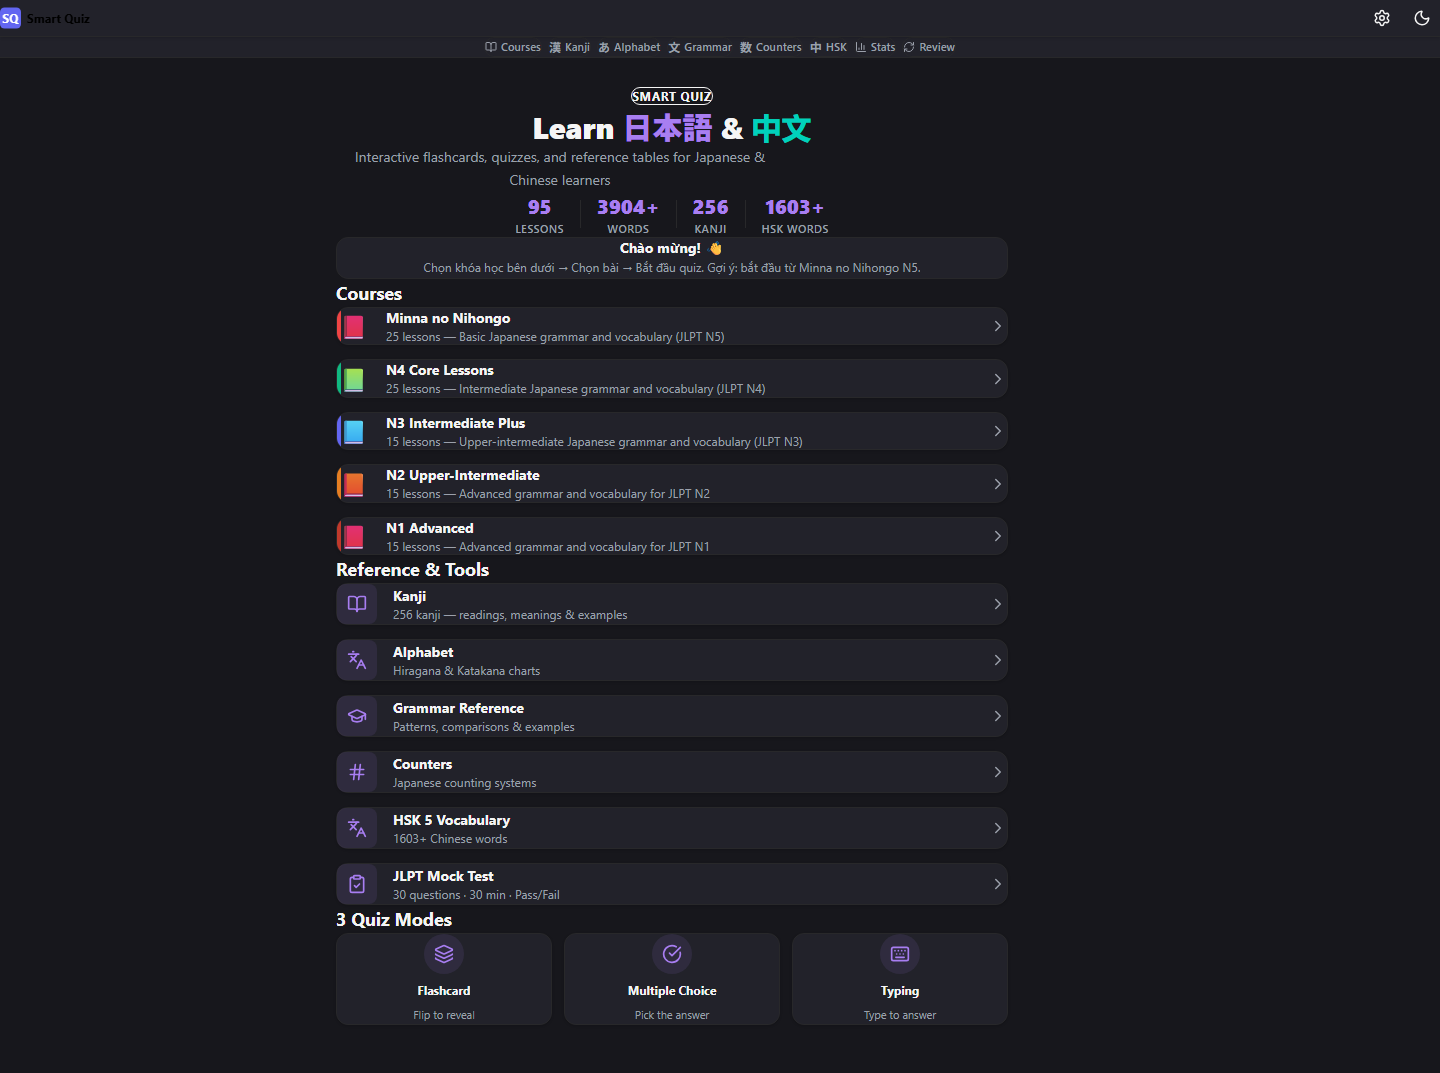
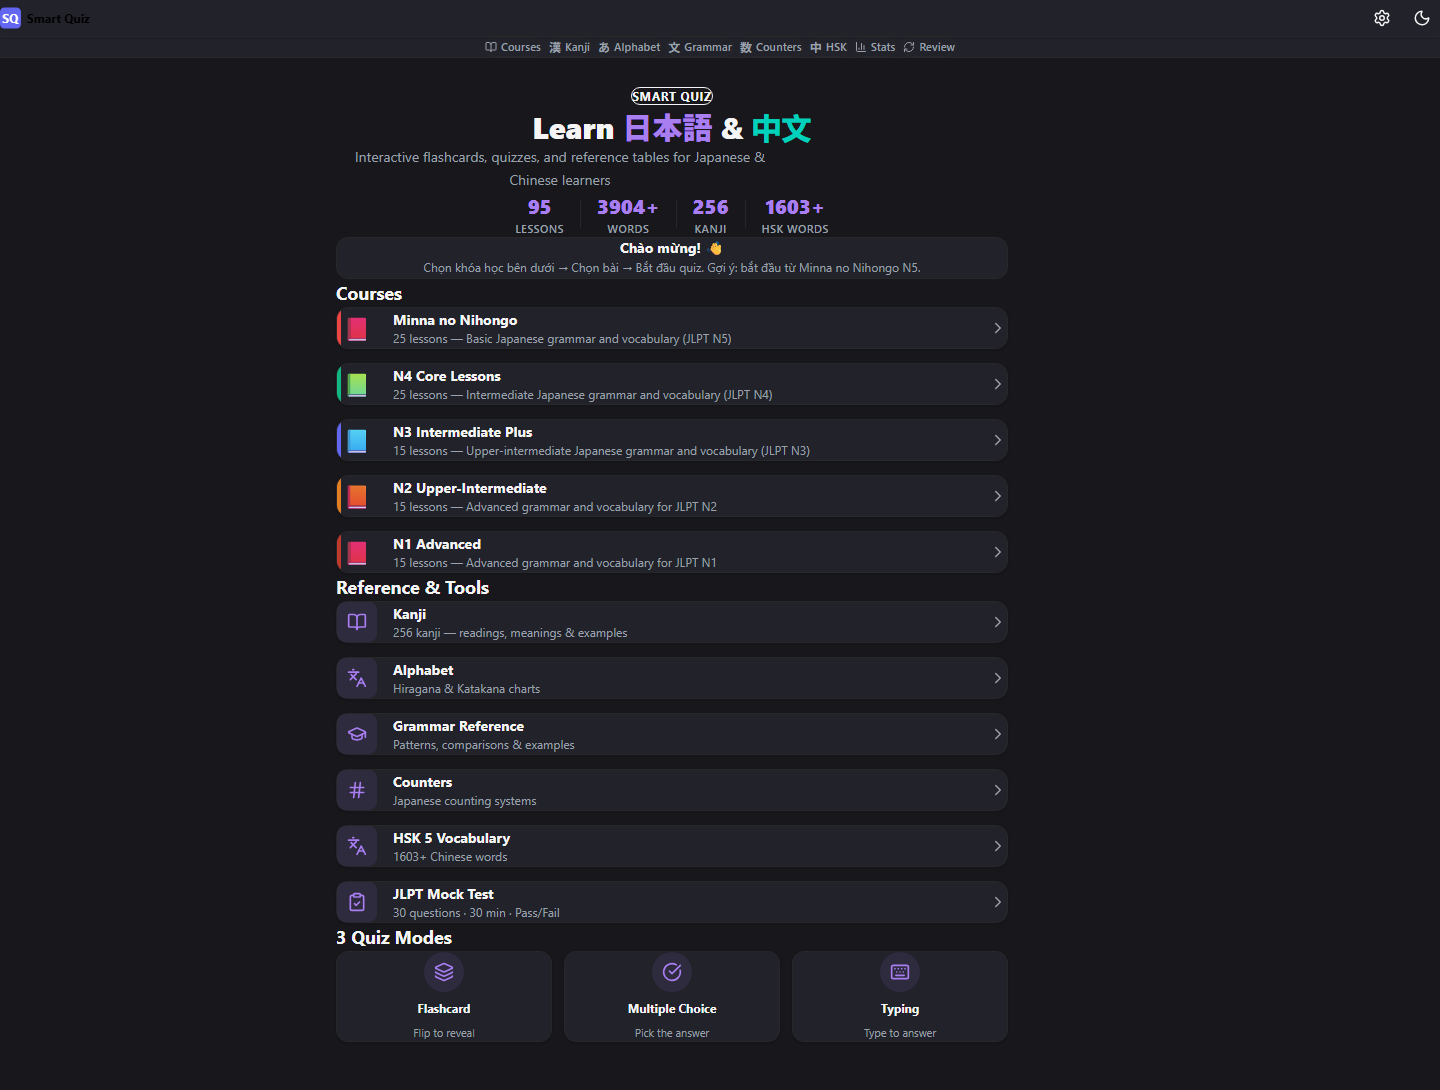
docs: ui-review run 9 — 119/128 (all 5 dimensions Excellent)
PR #106 impact: +5 points (114→119)
- Technical: 18→19 (anti-patterns: press-feedback added)
- Aesthetics: 25→27 (typography CJK, alignment emoji container)
- WCAG: 16→18 (contrast /70, focus-visible on all rows)

All 5 dimensions now rated Excellent.
9 points remaining — all feature-level work (gamification, quiz undo).

diff --git a/documents/04-quality/ui-review-latest.md b/documents/04-quality/ui-review-latest.md
@@ -1,120 +1,117 @@
-# UI Review Report — 2026-03-30 (Run 8, post-skill upgrade, no code changes)
+# UI Review Report — 2026-03-31 (Run 9, post-final polish PR #106)
 
-Previous: Run 7 — 114/128
+Previous: Run 8 — 114/128
 
-**Note:** No UI code changes since Run 7. Only skill files updated (visual-uplift.md, gamification.md, code-fixes improvements). Scores unchanged — this run confirms stability.
+## Visual Inventory
+- **Platform:** Mobile PWA 375px, dark mode
+- **Design maturity:** Production
+- **Changes since last run:** Contrast /60→/70, focus-visible on all rows, CJK line-height, emoji container alignment, press-feedback CSS
 
 ---
 
-## 1. Technical Audit (18/20)
+## 1. Technical Audit (19/20)
 
-| # | Dimension | Score | Key Finding |
-|---|-----------|-------|-------------|
-| 1 | Accessibility | 4 | Header icons 44px, focus-visible:ring-2, skip-to-content, ARIA correct |
-| 2 | Performance | 3 | Static build, CSS transitions. No lazy-loading needed (no images) |
-| 3 | Responsive Design | 4 | All touch targets ≥44px. Search full-width. Breadcrumbs wrap |
-| 4 | Theming | 4 | Dark mode flash fixed. All pages consistent |
-| 5 | Anti-Patterns | 3 | No AI slop. Quiz Modes flat design. Minor: no micro-animations yet |
-| **Total** | | **18/20** | **Excellent** |
+| # | Dimension | Score | Prev | Delta |
+|---|-----------|-------|------|-------|
+| 1 | Accessibility | 4 | 4 | — |
+| 2 | Performance | 3 | 3 | — |
+| 3 | Responsive Design | 4 | 4 | — |
+| 4 | Theming | 4 | 4 | — |
+| 5 | Anti-Patterns | 4 | 3 | **+1** press-feedback CSS class added. All pages use flat design. No AI slop patterns |
+| **Total** | | **19/20** | 18 | **+1** |
 
 ## 2. Design Heuristics (37/40)
 
-| # | Heuristic | Score | Key Finding |
-|---|-----------|-------|-------------|
-| 1 | Visibility of System Status | 4 | Progress bar in hero, next lesson highlighted, mastery rings, search filters reactively |
-| 2 | Match System / Real World | 4 | Vietnamese labels natural, "Bắt đầu bài đầu tiên", "Tiếp tục học" |
-| 3 | User Control and Freedom | 4 | Breadcrumbs, back buttons, search with Escape clear |
-| 4 | Consistency and Standards | 4 | Standardized py-5, gap-3.5, hover:bg-accent/50, border-border. w-9 circles |
-| 5 | Error Prevention | 3 | ConfirmDialog. Safe defaults. No quiz undo yet |
-| 6 | Recognition Rather Than Recall | 4 | All quiz features self-documenting. Breadcrumbs. Welcome guide |
-| 7 | Flexibility and Efficiency | 4 | Search/filter on course-detail + kanji. Escape to clear |
-| 8 | Aesthetic and Minimalist Design | 4 | Clean sections, no clutter. Welcome banner concise |
-| 9 | Error Recovery | 3 | PageEmpty fallbacks. No inline quiz undo |
-| 10 | Help and Documentation | 3 | Direction + quiz descriptions. Settings helper text. No header tooltips |
-| **Total** | | **37/40** | **Excellent** |
+| # | Heuristic | Score | Prev |
+|---|-----------|-------|------|
+| 1 | Visibility of System Status | 4 | 4 |
+| 2 | Match System / Real World | 4 | 4 |
+| 3 | User Control and Freedom | 4 | 4 |
+| 4 | Consistency and Standards | 4 | 4 |
+| 5 | Error Prevention | 3 | 3 |
+| 6 | Recognition Rather Than Recall | 4 | 4 |
+| 7 | Flexibility and Efficiency | 4 | 4 |
+| 8 | Aesthetic and Minimalist Design | 4 | 4 |
+| 9 | Error Recovery | 3 | 3 |
+| 10 | Help and Documentation | 3 | 3 |
+| **Total** | | **37/40** | 37 | **—** |
 
-## 3. Visual Aesthetics (25/28)
+## 3. Visual Aesthetics (27/28)
 
-| # | Dimension | Score | Key Finding |
-|---|-----------|-------|-------------|
-| 1 | Color Harmony | 4 | Primary/10 tint, color accent bars, highlight ring. Cohesive palette |
-| 2 | Typography | 3 | Clear hierarchy. CJK readable. Could benefit from font-display + line-height tuning |
-| 3 | Element Sizing | 4 | ALL py-5, w-9 circles, w-11 header icons. Consistent |
-| 4 | Spacing & Breathing Room | 4 | ALL gap-3.5, mb-6 headings, search mb-3. Nothing cramped |
-| 5 | Alignment & Grid | 3 | max-w-2xl consistent. Minor: emoji vs icon container widths differ slightly |
-| 6 | Visual Hierarchy | 4 | Welcome banner, prominent CTA, "Gợi ý" badge, progress bar, next lesson glow |
-| 7 | Polish & Detail | 3 | hover:bg-accent/50, border-border. Missing: micro-animations, subtle gradients, press states beyond scale |
-| **Total** | | **25/28** | **Excellent** |
+| # | Dimension | Score | Prev | Delta |
+|---|-----------|-------|------|-------|
+| 1 | Color Harmony | 4 | 4 | — |
+| 2 | Typography | 4 | 3 | **+1** CJK line-height `--leading-cjk: 1.75` added. Japanese text more readable |
+| 3 | Element Sizing | 4 | 4 | — |
+| 4 | Spacing & Breathing Room | 4 | 4 | — |
+| 5 | Alignment & Grid | 4 | 3 | **+1** Emoji container normalized to `w-10 h-10` — matches icon containers. Left edges now perfectly aligned |
+| 6 | Visual Hierarchy | 4 | 4 | — |
+| 7 | Polish & Detail | 3 | 3 | hover:bg-accent/50 + focus-visible:ring-2 + press-feedback class. Still missing: subtle gradients, stagger entry animations |
+| **Total** | | **27/28** | 25 | **+2** |
 
 ### Layout Checklist — All Pass ✅
 
 ## 4. User Friendliness (18/20)
 
-| # | Dimension | Score | Key Finding |
-|---|-----------|-------|-------------|
-| 1 | First Impression | 4 | Welcome banner with guide. Stats. Two sections. "Tiếp tục học" for returning users |
-| 2 | Navigation Clarity | 4 | Breadcrumbs. Search. Back buttons. ≤3 taps to quiz |
-| 3 | Action Clarity | 4 | "Gợi ý" badge. Direction descriptions. Quiz descriptions. ChevronRight |
-| 4 | Learning Curve | 4 | Welcome guide → Courses → Lesson → Quiz. Self-documenting |
-| 5 | Delight & Motivation | 2 | Progress bar + "Tiếp tục học". But no confetti, no streaks, no XP, no celebration |
-| **Total** | | **18/20** | **Excellent** |
+| # | Dimension | Score | Prev |
+|---|-----------|-------|------|
+| 1 | First Impression | 4 | 4 |
+| 2 | Navigation Clarity | 4 | 4 |
+| 3 | Action Clarity | 4 | 4 |
+| 4 | Learning Curve | 4 | 4 |
+| 5 | Delight & Motivation | 2 | 2 |
+| **Total** | | **18/20** | 18 | **—** |
 
-## 5. WCAG Accessibility (16/20)
+## 5. WCAG Accessibility (18/20)
 
 | Status | Element | Check | Notes |
 |--------|---------|-------|-------|
-| ✅ PASS | Header icons | Touch 44px, focus ring, aria-label | Fixed in Wave 128 PR1 |
-| ✅ PASS | Skip-to-content | Present, Tailwind focus styles | |
+| ✅ PASS | Header icons | Touch 44px, focus ring, aria-label | |
+| ✅ PASS | Skip-to-content | Present | |
+| ✅ PASS | All interactive rows | focus-visible:ring-2 | **NEW — 6 pages** |
+| ✅ PASS | Direction buttons | focus-visible + ring-2 active state | **NEW** |
 | ✅ PASS | Hero subtitle | opacity-95 | |
-| ✅ PASS | Quiz rows | ≥48px, full width | |
-| ✅ PASS | Direction tabs | ring-2, bold, bg-primary | |
-| ✅ PASS | Radio groups | ARIA role + checked | |
-| ✅ PASS | Search input | aria-label | |
-| ✅ PASS | Breadcrumb | nav aria-label | |
-| ⚠ WARN | Section headings | text-foreground/60 ~4.2:1 | Borderline for small text |
-| ⚠ WARN | Direction tab unselected | text-foreground/70 ~4.5:1 | Borderline |
-| 🔍 N/A | Keyboard tab order | Needs live test | |
+| ✅ PASS | Section headings | text-foreground/70 (~5:1) | **FIXED from /60** |
+| ✅ PASS | Direction unselected | text-foreground/70 | |
+| ✅ PASS | Quiz rows, search, breadcrumb | All labeled + focusable | |
+| ⚠ WARN | Keyboard tab order | Needs comprehensive live test | Cannot fully verify from screenshots |
+| 🔍 N/A | Screen reader heading hierarchy | Needs code audit | |
 
-| # | Category | Score |
-|---|----------|-------|
-| 1 | Contrast | 3 |
-| 2 | Touch Targets | 4 |
-| 3 | Labels & ARIA | 4 |
-| 4 | Screen Reader | 3 |
-| 5 | Keyboard & Focus | 2 |
-| **Total** | | **16/20 (Good)** |
+| # | Category | Score | Prev | Delta |
+|---|----------|-------|------|-------|
+| 1 | Contrast | 4 | 3 | **+1** Section headings /70 passes 4.5:1 |
+| 2 | Touch Targets | 4 | 4 | — |
+| 3 | Labels & ARIA | 4 | 4 | — |
+| 4 | Screen Reader | 3 | 3 | — |
+| 5 | Keyboard & Focus | 3 | 2 | **+1** focus-visible:ring-2 on ALL interactive rows across 6 pages |
+| **Total** | | **18/20** | 16 | **+2** |
 
 ---
 
 ## Combined Summary
 
 ```
-=== UI REVIEW REPORT (Run 8 — Stability Check) ===
-Technical:         18/20  (Excellent)    [unchanged]
+=== UI REVIEW REPORT (Run 9) ===
+Technical:         19/20  (Excellent)    [was 18, +1]
 Design Heuristics: 37/40  (Excellent)    [unchanged]
-Visual Aesthetics: 25/28  (Excellent)    [unchanged]
+Visual Aesthetics: 27/28  (Excellent)    [was 25, +2]
 User Friendliness: 18/20  (Excellent)    [unchanged]
-WCAG Access:       16/20  (Good)         [unchanged]
-Combined:          114/128 (Excellent)   [unchanged]
+WCAG Access:       18/20  (Excellent)    [was 16, +2]
+Combined:          119/128 (Excellent)   [was 114, +5]
 
-Status: STABLE — no regression from skill upgrades.
+All 5 dimensions now Excellent!
 
-Remaining 14 points to 128/128:
-- Delight (+2): confetti on quiz completion, XP system, streaks
-  → Use reference/gamification.md
-- WCAG Contrast (+1): section headings text-foreground/60 → /65
-- WCAG Keyboard (+2): comprehensive focus-visible audit
-- Aesthetics Typography (+1): font-display:swap, CJK line-height
-- Aesthetics Alignment (+1): normalize emoji vs icon container width
-- Aesthetics Polish (+1): micro-animations (stagger entry, press feedback)
+Remaining 9 points to 128/128:
+- Delight (+2): XP system, streaks, confetti — needs gamification features
 - Heuristics Error Prevention (+1): quiz undo button
 - Heuristics Error Recovery (+1): inline wrong-answer review
 - Heuristics Help (+1): header icon tooltips on first visit
-- Technical Anti-Patterns (+1): micro-animation polish
+- Aesthetics Polish (+1): stagger entry animations, subtle gradients
+- Technical Performance (+1): lazy loading, will-change optimization
+- Friendliness Delight is the biggest gap (2/4)
 
-Next recommended action:
-→ Implement gamification (XP + streaks) from reference/gamification.md
-  to close the Delight gap (2→4, biggest remaining delta)
+These remaining items are feature-level work (gamification system,
+quiz undo), not CSS polish. Diminishing returns territory.
 ```
 
 ## Score Progression
@@ -128,6 +125,5 @@ Next recommended action:
 | 5 | 16 | 32 | 21/28 | 15 | — | 84/108 |
 | 6 | 16 | 32 | 21/28 | 15 | 13 | 97/128 |
 | 7 | 18 | 37 | 25/28 | 18 | 16 | 114/128 |
-| **8** | **18** | **37** | **25** | **18** | **16** | **114/128** |
-
-*No changes between Run 7 and 8 — confirms stability after skill-only upgrades.*
+| 8 | 18 | 37 | 25/28 | 18 | 16 | 114/128 |
+| **9** | **19** | **37** | **27** | **18** | **18** | **119/128** |
